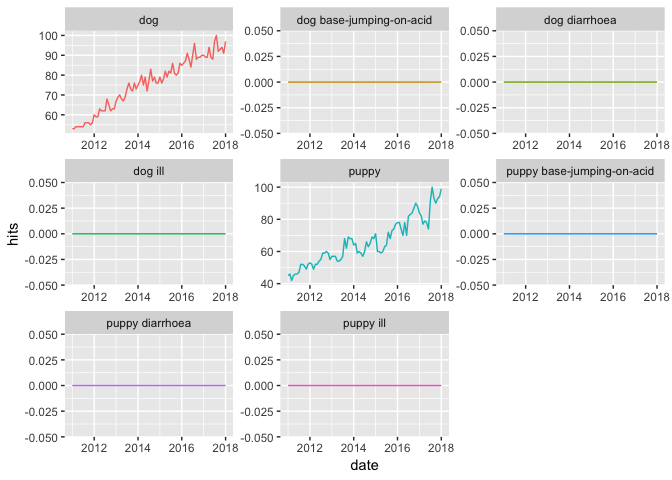
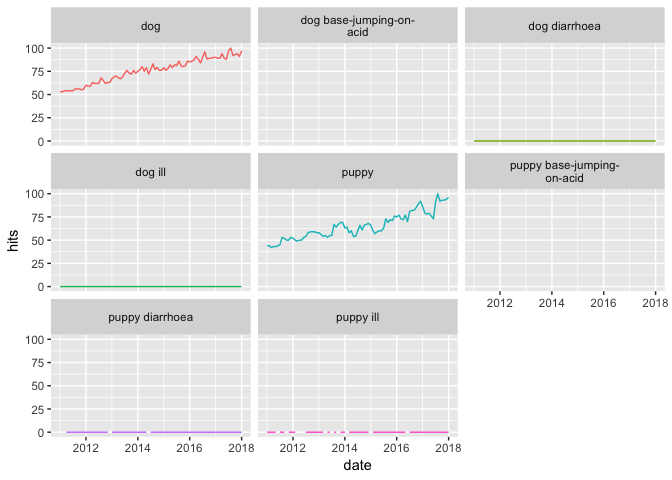
maybe fixe 0 & <1 hits

Changed region(s): [[0.0, 0.0, 1.0, 0.9375], [0.7812, 0.0312, 1.0, 0.0938], [0.5, 0.9062, 0.5625, 1.0]]

diff --git a/gtrend-list-column_20190128.md b/gtrend-list-column_20190128.md
@@ -7,14 +7,14 @@ Ian Handel
 library(tidyverse)
 ```
 
-    ## ── Attaching packages ──────────────────────────────────────────────────────────────────── tidyverse 1.2.1 ──
+    ## ── Attaching packages ───────────────────────────────────────────────────────────────────── tidyverse 1.2.1 ──
 
     ## ✔ ggplot2 3.1.0           ✔ purrr   0.2.5      
     ## ✔ tibble  2.0.99.9000     ✔ dplyr   0.7.8      
     ## ✔ tidyr   0.8.2           ✔ stringr 1.3.1      
     ## ✔ readr   1.3.1           ✔ forcats 0.3.0
 
-    ## ── Conflicts ─────────────────────────────────────────────────────────────────────── tidyverse_conflicts() ──
+    ## ── Conflicts ──────────────────────────────────────────────────────────────────────── tidyverse_conflicts() ──
     ## ✖ dplyr::filter() masks stats::filter()
     ## ✖ dplyr::lag()    masks stats::lag()
 
@@ -129,17 +129,31 @@ iot <- searches %>%
   filter(!map_lgl(iot, is.null)) %>% 
   unnest(iot) %>% 
   right_join(searches %>% select_if(~!is_list(.))) %>% 
-  mutate(hits = if_else(hits == "<1", 0, parse_number(hits)))
+  mutate(hits = case_when(hits == "<1" ~ 0L,
+                          hits == 0    ~ NA_integer_,
+                          TRUE         ~ parse_integer(hits)))
 ```
 
     ## Joining, by = "dogs"
+
+    ## Warning: 325 parsing failures.
+    ## row col   expected actual
+    ## 171  -- an integer     <1
+    ## 172  -- an integer     <1
+    ## 173  -- an integer     <1
+    ## 174  -- an integer     <1
+    ## 175  -- an integer     <1
+    ## ... ... .......... ......
+    ## See problems(...) for more details.
 
 ``` r
 ggplot(iot) +
   aes(date, hits, colour = keyword) +
   geom_line() +
-  facet_wrap(~keyword, scale = "free") +
+  facet_wrap(~ str_wrap(keyword,width = 20)) +
   theme(legend.position = "none")
 ```
+
+    ## Warning: Removed 170 rows containing missing values (geom_path).
 
 ![](gtrend-list-column_20190128_files/figure-markdown_github/unnamed-chunk-6-1.png)
